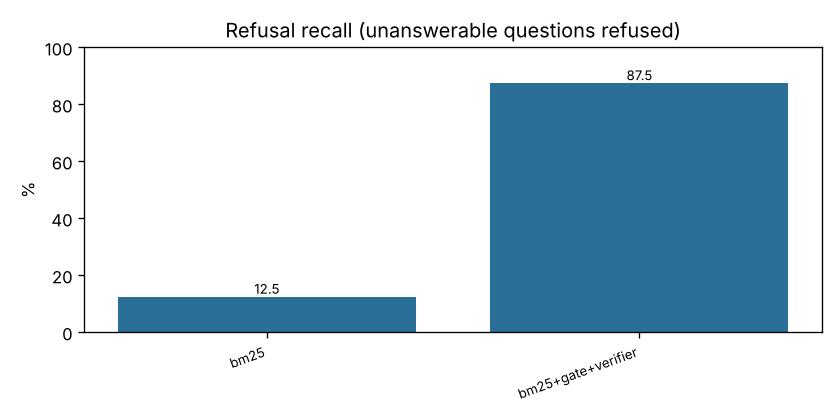
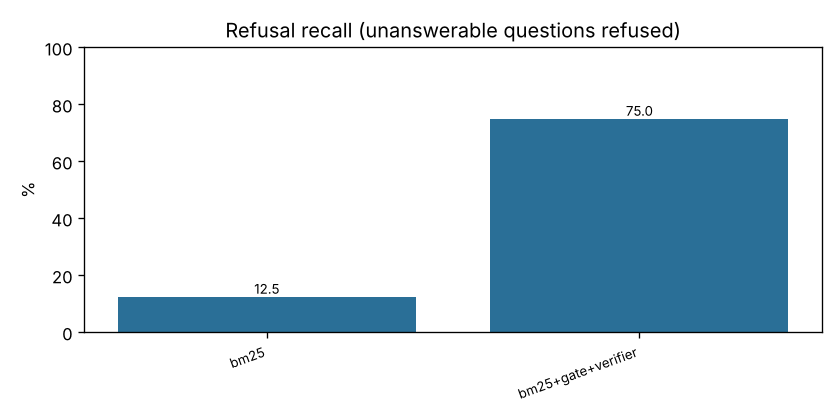
Join run-in headings with a colon (verifier-safe); drop numbered-list markers in the chunker
Claude-Session: https://claude.ai/code/session_019u9b1pND1Kezy9oyWy8AQf

Changed region(s): [[0.5571, 0.1548, 0.9595, 0.3095]]

diff --git a/tests/test_engine.py b/tests/test_engine.py
@@ -134,7 +134,7 @@ def test_run_in_heading_is_joined_to_its_sentence() -> None:
     assert merge_run_in_labels(
         ["Directors' remuneration.", "USD 1,500 per annum each.", "Next one."]
     ) == [
-        "Directors' remuneration. USD 1,500 per annum each.",
+        "Directors' remuneration: USD 1,500 per annum each.",
         "Next one.",
     ]
     # a real short sentence (has "is") and a fragment with a digit are not labels
@@ -148,5 +148,5 @@ def test_run_in_heading_is_joined_to_its_sentence() -> None:
     ]
     out = ExtractiveGenerator().generate("What is the directors' remuneration?", corpus)
     assert out.startswith(
-        "Directors' remuneration. USD 1,500 per annum each; two directors waived fees [fx, p.1]"
+        "Directors' remuneration: USD 1,500 per annum each; two directors waived fees [fx, p.1]"
     )

diff --git a/tests/test_chunker.py b/tests/test_chunker.py
@@ -78,3 +78,13 @@ def test_is_heading_negatives() -> None:
     assert not is_heading("2. Mr Rao resigned from the committee on 5 May.")
     assert is_heading("ITEM 7. MANAGEMENT DISCUSSION")
     assert is_heading("3.1 Capital commitments")
+
+
+def test_numbered_list_markers_do_not_leak_into_sentences() -> None:
+    # Found on a real PDF: "... expenses reimbursed. 11. Transactions ..." left a stray "11".
+    page = "Remuneration. USD 1,500 each; expenses reimbursed.\n11. Transactions are not voidable."
+    chunks = chunk_pages([Page(1, page)], doc="d")
+    assert (
+        chunks[0].text
+        == "Remuneration. USD 1,500 each; expenses reimbursed. Transactions are not voidable."
+    )

diff --git a/pereport/chunker.py b/pereport/chunker.py
@@ -17,6 +17,7 @@ _KEYWORD_HEADING = re.compile(
     r"^(?:item\s+\d+[a-z]?\.?|section\s+\d+|part\s+[ivx]+|schedule\s+\w+)\b", re.I
 )
 _NUMERIC_TOKEN = re.compile(r"\d[\d,]*(?:\.\d+)?%?")
+_LIST_MARKER = re.compile(r"^\d{1,2}\.\s+(?=\S)")
 _SENTENCE_END = re.compile(r"(?<=[.!?])\s+(?=[A-Z\"'(\[])")
 
 
@@ -135,7 +136,8 @@ def _page_blocks(text: str, section: str) -> tuple[list[tuple[str, str, str]], s
             flush()
             section = line
         else:
-            buf.append(line)
+            # numbered-list markers ("11. Transactions...") would leak into the previous sentence
+            buf.append(_LIST_MARKER.sub("", line))
     flush()
     return blocks, section
 

diff --git a/pereport/engine.py b/pereport/engine.py
@@ -92,7 +92,8 @@ def merge_run_in_labels(sentences: list[str]) -> list[str]:
             and i + 1 < len(sentences)
         )
         if is_label:
-            out.append(f"{sentences[i].rstrip('.:')}. {sentences[i + 1]}")
+            # a colon, not a full stop: the verifier splits on full stops and would orphan the label
+            out.append(f"{sentences[i].rstrip('.:')}: {sentences[i + 1]}")
             i += 2
         else:
             out.append(sentences[i])

diff --git a/eval/sample/dev/report.md b/eval/sample/dev/report.md
@@ -6,14 +6,14 @@ Skipped configurations: embedding model BAAI/bge-small-en-v1.5 unavailable: Modu
 
 | Config | N | Accuracy | Auto-answered (headline) | Hallucination | 95% upper | Faithfulness | Cit. P | Cit. R | Refusal P | Refusal R |
 |---|---|---|---|---|---|---|---|---|---|---|
-| bm25 | 25 | 64.0% | 60.0% | 7/24 (29.2%) | 49.2% | 100.0% | 75.9% | 61.1% | 100.0% | 12.5% |
-| bm25+gate+verifier | 25 | 72.0% | 44.0% | 1/14 (7.1%) | 31.5% | 100.0% | 72.7% | 57.1% | 63.6% | 87.5% |
+| bm25 | 25 | 68.0% | 64.0% | 7/24 (29.2%) | 49.2% | 79.2% | 75.9% | 61.1% | 100.0% | 12.5% |
+| bm25+gate+verifier | 25 | 84.0% | 60.0% | 2/18 (11.1%) | 32.8% | 83.3% | 77.8% | 63.6% | 85.7% | 75.0% |
 
 ## Per-category: bm25
 
 | Category | N | Answered | Refused | Correct |
 |---|---|---|---|---|
-| answerable | 15 | 15 | 0 | 14 |
+| answerable | 15 | 15 | 0 | 15 |
 | partial | 2 | 2 | 0 | 1 |
 | unanswerable | 8 | 7 | 1 | 1 |
 
@@ -21,6 +21,6 @@ Skipped configurations: embedding model BAAI/bge-small-en-v1.5 unavailable: Modu
 
 | Category | N | Answered | Refused | Correct |
 |---|---|---|---|---|
-| answerable | 15 | 12 | 3 | 11 |
+| answerable | 15 | 15 | 0 | 15 |
 | partial | 2 | 1 | 1 | 0 |
-| unanswerable | 8 | 1 | 7 | 7 |
+| unanswerable | 8 | 2 | 6 | 6 |
